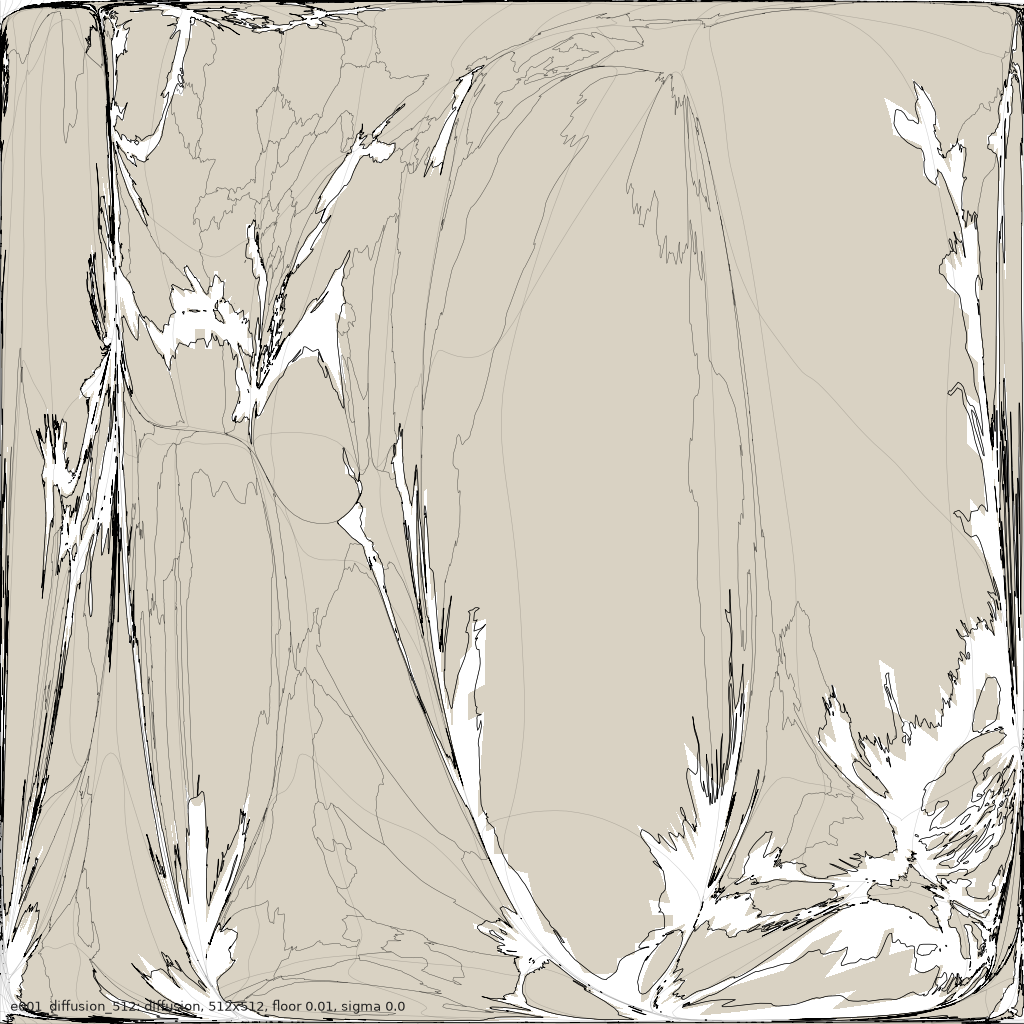
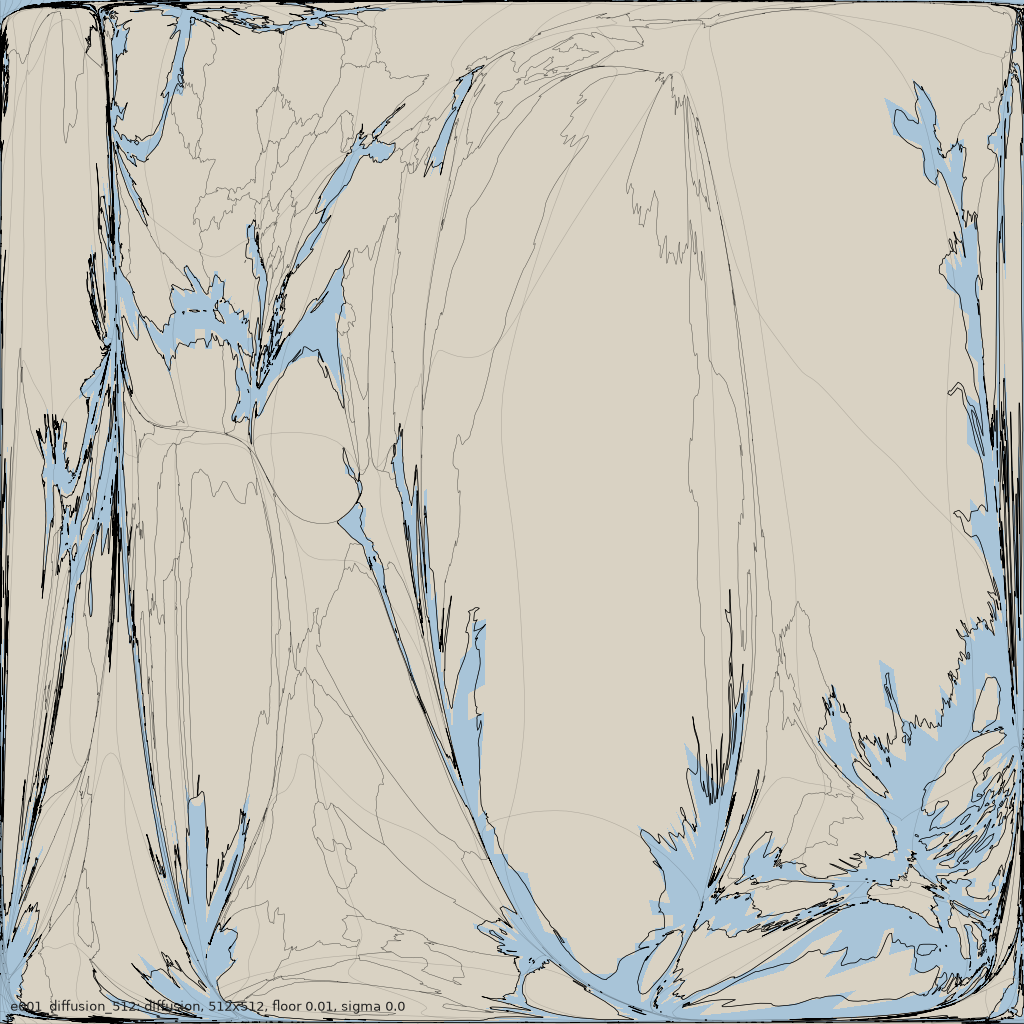
Smoothing and floor sweep (e002-e005), error maps, experiment index

diff --git a/src/hc/render.py b/src/hc/render.py
@@ -97,7 +97,7 @@ def graticule(H, W, lat_cut, step=15):
 def draw(X, Y, mask, out_png, coast_lines=(), border_lines=(), grat_lines=(),
          raster=None, cmap="magma", title=None, px_per_cell=2.0):
     H, W = mask.shape
-    fig = plt.figure(figsize=(W * px_per_cell / 100, H * px_per_cell / 100), dpi=100)
+    fig = plt.figure(figsize=(W * px_per_cell / 100, H * px_per_cell / 100), dpi=100, facecolor=OCEAN)
     ax = fig.add_axes([0, 0, 1, 1])
     ax.set_facecolor(OCEAN)
     if raster is not None:
@@ -117,5 +117,24 @@ def draw(X, Y, mask, out_png, coast_lines=(), border_lines=(), grat_lines=(),
     ax.axis("off")
     if title:
         ax.text(0.01, 0.01, title, transform=ax.transAxes, fontsize=9, color="#222", va="bottom")
+    fig.savefig(out_png, dpi=100, facecolor=fig.get_facecolor())
+    plt.close(fig)
+
+
+def draw_error(X, Y, rho0, out_png, px_per_cell=2.0, vmax=1.0):
+    """log(rho0 / warped area): 0 everywhere is a perfect cartogram; red = too small, blue = too big."""
+    from .diffusion import quad_areas
+    A = quad_areas(X, Y)
+    lr = np.log(rho0 / np.maximum(A, 1e-12))
+    lr[A <= 0] = np.nan
+    H, W = rho0.shape
+    fig = plt.figure(figsize=(W * px_per_cell / 100, H * px_per_cell / 100), dpi=100, facecolor="white")
+    ax = fig.add_axes([0, 0, 1, 1])
+    ax.pcolormesh(X, Y, np.ma.masked_invalid(lr), cmap="RdBu_r", vmin=-vmax, vmax=vmax, shading="flat", rasterized=True, antialiased=False)
+    ax.set_xlim(0, W); ax.set_ylim(H, 0); ax.set_aspect("equal"); ax.axis("off")
+    ax.text(0.01, 0.01, f"log(rho0/area), range +-{vmax}; folds black", transform=ax.transAxes, fontsize=9)
+    if (A <= 0).any():
+        fy, fx = np.nonzero(A <= 0)
+        ax.plot(X[fy, fx], Y[fy, fx], "k.", ms=2)
     fig.savefig(out_png, dpi=100)
     plt.close(fig)

diff --git a/src/rerender.py b/src/rerender.py
@@ -1,0 +1,22 @@
+"""Redraw an experiment's PNGs from its saved mesh (after render changes)."""
+import json, os, sys
+import numpy as np
+sys.path.insert(0, os.path.dirname(__file__))
+from hc import render
+ROOT = os.path.dirname(os.path.dirname(os.path.abspath(__file__)))
+RAW = os.path.join(ROOT, "data", "raw")
+for name in sys.argv[1:]:
+    out = os.path.join(ROOT, "experiments", name)
+    p = json.load(open(os.path.join(out, "params.json")))
+    z = np.load(os.path.join(out, "mesh.npz"))
+    X, Y, rho0 = z["X"], z["Y"], z["rho0"]
+    H, W, lc, v = p["H"], p["W"], p["lat_cut"], p["vectors"]
+    mask = render.land_mask(os.path.join(RAW, f"ne_{v}_land.geojson"), H, W, lc)
+    coast = render.lines_from_geojson(os.path.join(RAW, f"ne_{v}_coastline.geojson"), H, W, lc)
+    borders = render.lines_from_geojson(os.path.join(RAW, f"ne_{v}_admin_0_countries.geojson"), H, W, lc)
+    grat = render.graticule(H, W, lc)
+    title = f"{name}: diffusion, {W}x{H}, floor {p['floor']}, sigma {p['sigma']}"
+    render.draw(X, Y, mask, os.path.join(out, "cartogram.png"), coast, borders, grat, title=title)
+    render.draw(X, Y, mask, os.path.join(out, "cartogram_density.png"), coast, [], [], raster=np.log10(rho0), title=title + " (log10 source density through the warp)")
+    render.draw_error(X, Y, rho0, os.path.join(out, "error.png"))
+    print("rerendered", name)

diff --git a/src/run_diffusion.py b/src/run_diffusion.py
@@ -70,6 +70,7 @@ def main():
     render.draw(X, Y, mask, os.path.join(out, "cartogram.png"), coast, borders, grat, title=title)
     render.draw(X, Y, mask, os.path.join(out, "cartogram_density.png"), coast, [], [],
                 raster=np.log10(dc.rho0), title=title + " (log10 source density through the warp)")
+    render.draw_error(X, Y, dc.rho0, os.path.join(out, "error.png"))
     log(f"wrote {out}")
 
 

diff --git a/EXPLORATION.md b/EXPLORATION.md
@@ -1,6 +1,6 @@
 # Exploration map
 
-As of 2026-08-28. Legend: `[ ]` todo, `[~]` in progress, `[x]` done, `[!]` blocked.
+As of 2026-08-28 (evening). Legend: `[ ]` todo, `[~]` in progress, `[x]` done, `[!]` blocked.
 Act 1 pins time at 2025 and compares methods. Act 2 (timeline) is last.
 
 ```
@@ -13,11 +13,11 @@ Act 1 pins time at 2025 and compares methods. Act 2 (timeline) is last.
 
  PREP
   [x] P1 counts -> Mercator rectangle by exact re-binning (no density reprojection)
-  [ ] P2 floor and smoothing policy: floor as fraction of mean, sigma in px
+  [~] P2 floor and smoothing policy: floor as fraction of mean, sigma in px (first sweep in experiments/INDEX.md)
   [ ] P3 sphere-native variant (skip Mercator; Choi spherical DEM style)
 
  METHODS (each one: same input, same metrics, same render)
-  [~] M1 diffusion, Gastner-Newman 2004: DCT heat flow, Neumann box, RK4 particles   <- start
+  [x] M1 diffusion, Gastner-Newman 2004: DCT heat flow, Neumann box, RK4 particles   (v0 works, e001-e005)
   [ ] M2 flow-based, Gastner-Seguy-More 2018, via cartogram-cpp (reference implementation)
   [ ] M3 OT / W2 Brenier map via back-and-forth method (Jacobs-Leger 2020, bfm)      <- the new picture
   [ ] M4 OT via entropic Sinkhorn on the grid (separable kernel), barycentric map
@@ -39,7 +39,7 @@ Act 1 pins time at 2025 and compares methods. Act 2 (timeline) is last.
   width in {512, 1024, 2048, 4096} | ocean floor vs ocean removed
 
  RENDER
-  [~] R1 warped mesh (pcolormesh) + warped coastlines, borders, graticule
+  [x] R1 warped mesh (pcolormesh) + warped coastlines, borders, graticule, error map
   [ ] R2 rasters through the same field: population, night lights, terrain
   [ ] R3 morph geography -> cartogram (interpolate displacement; OT gives the geodesic)
   [ ] R4 WebGL mesh for the site (scrub in the browser)

diff --git a/experiments/INDEX.md b/experiments/INDEX.md
@@ -1,0 +1,13 @@
+# Experiment index
+
+All diffusion (M1) unless stated. log-ratio = population-weighted log(rho0/area), p05 / p95 (0 = perfect). Anisotropy p50 / p95. Time on the M4.
+
+| run | width | floor | sigma | folds | log-ratio p05/p95 | anisotropy | mean disp px | s |
+|---|---|---|---|---|---|---|---|---|
+| e001_diffusion_512 | 512 | 0.01 | 0.0 | 413 | -0.81 / +1.80 | 4.7 / 42 | 137 | 64 |
+| e002_s1_f01 | 512 | 0.01 | 1.0 | 198 | -0.43 / +0.50 | 4.6 / 39 | 137 | 68 |
+| e003_s2_f01 | 512 | 0.01 | 2.0 | 82 | -0.18 / +0.16 | 4.3 / 33 | 137 | 67 |
+| e004_s3_f01 | 512 | 0.01 | 3.0 | 50 | -0.10 / +0.07 | 4.1 / 28 | 137 | 67 |
+| e005_s2_f05 | 512 | 0.05 | 2.0 | 1 | -0.18 / +0.16 | 4.3 / 34 | 128 | 60 |
+
+Reading: smoothing is what buys accuracy at 512 px (sigma 3 px gives about +-10% density error); floor 5% removes folds at sigma 2; the seams where the ocean collapses are where the remaining error and the folds live (see error.png).

diff --git a/DECISIONS.md b/DECISIONS.md
@@ -12,3 +12,9 @@
 - 2026-08-28  Diffusion (Gastner-Newman) is the first method, own implementation in numpy/scipy,
   not cartogram-cpp, so every later method shares prep, metrics and render.
 - 2026-08-28  Same metrics for every method, computed on the warped corner mesh.
+- 2026-08-28  The diffusion solver starts at t = 0.5 px^2 (heat kernel one pixel wide) because
+  raw 1 km spikes on a coarse grid make v = -grad(rho)/rho meaningless below a pixel; the first
+  run without this stalled at dt ~ 1e-5. Extra smoothing sigma is a separate knob.
+- 2026-08-28  At 512 px the honest defaults are sigma 3 px, floor 1-5%: about +-10% density error,
+  few folds, 65 s. Resolution and accuracy trade directly; the OT methods must beat this bar.
+- 2026-08-28  experiments/INDEX.md is the running comparison table; regenerate it, do not hand-edit.
